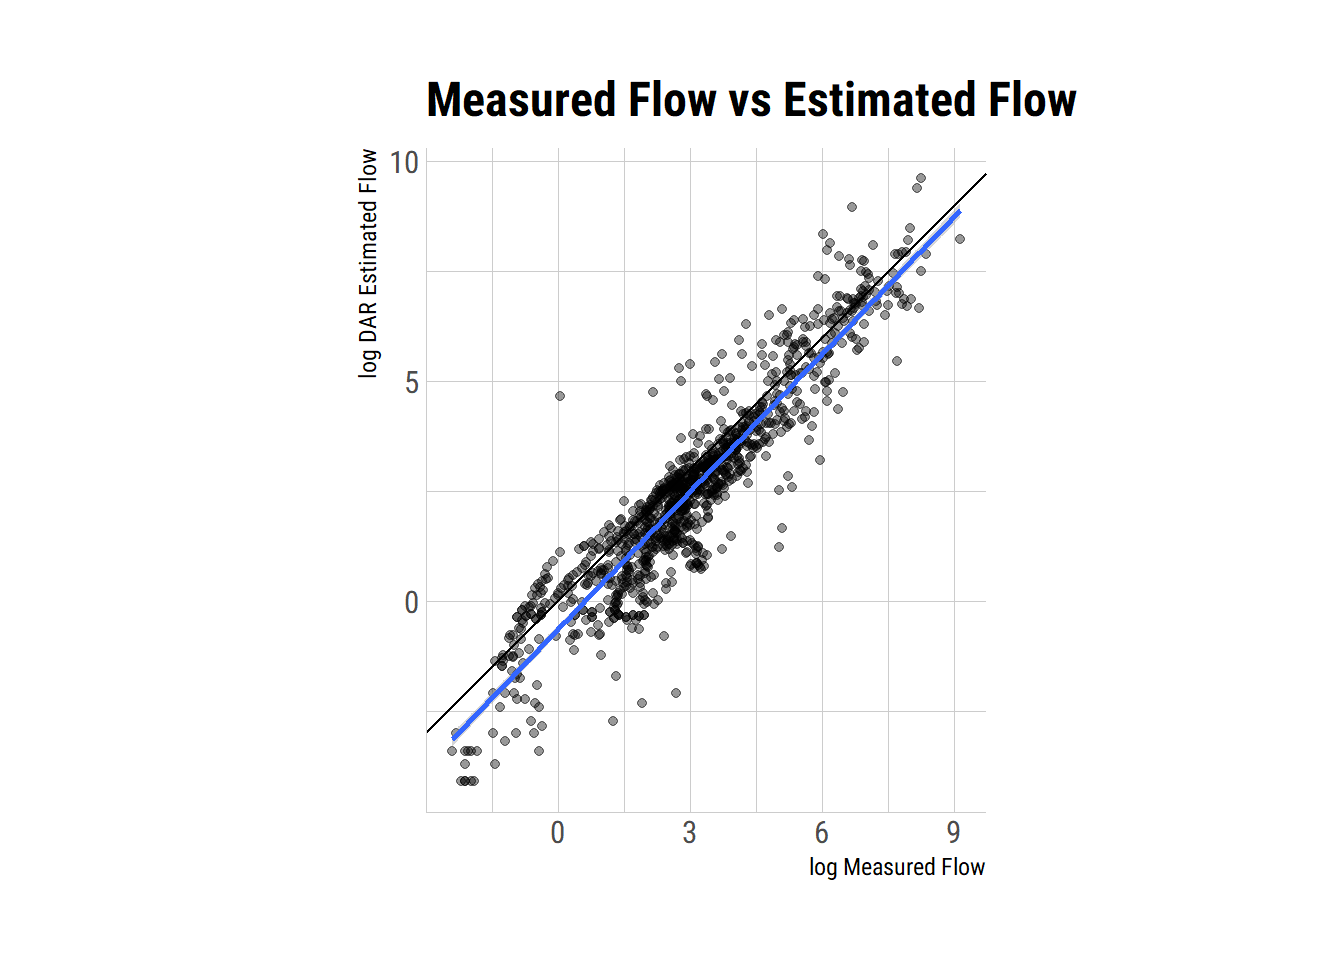
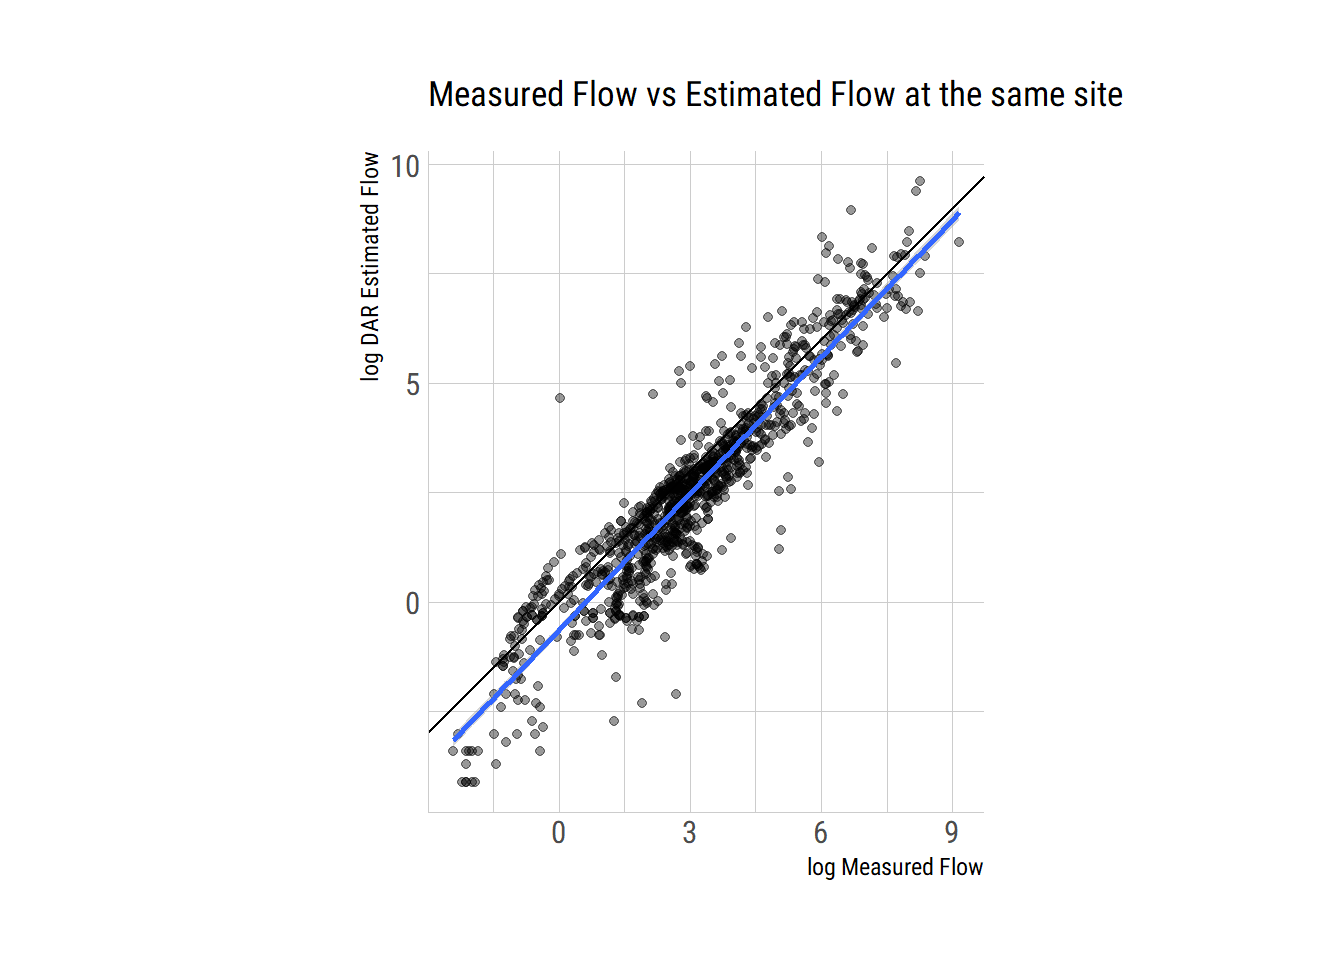
Update README

diff --git a/README.md b/README.md
@@ -124,7 +124,7 @@ ggplot(comparison) +
   geom_abline(intercept = 0, slope = 1) +
   coord_equal() +
   theme_ipsum_rc(axis = TRUE) +
-  labs(title = "Measured Flow vs Estimated Flow",
+  labs(subtitle = "Measured Flow vs Estimated Flow at the same site",
        x = "log Measured Flow",
        y = "log DAR Estimated Flow")
 ```
